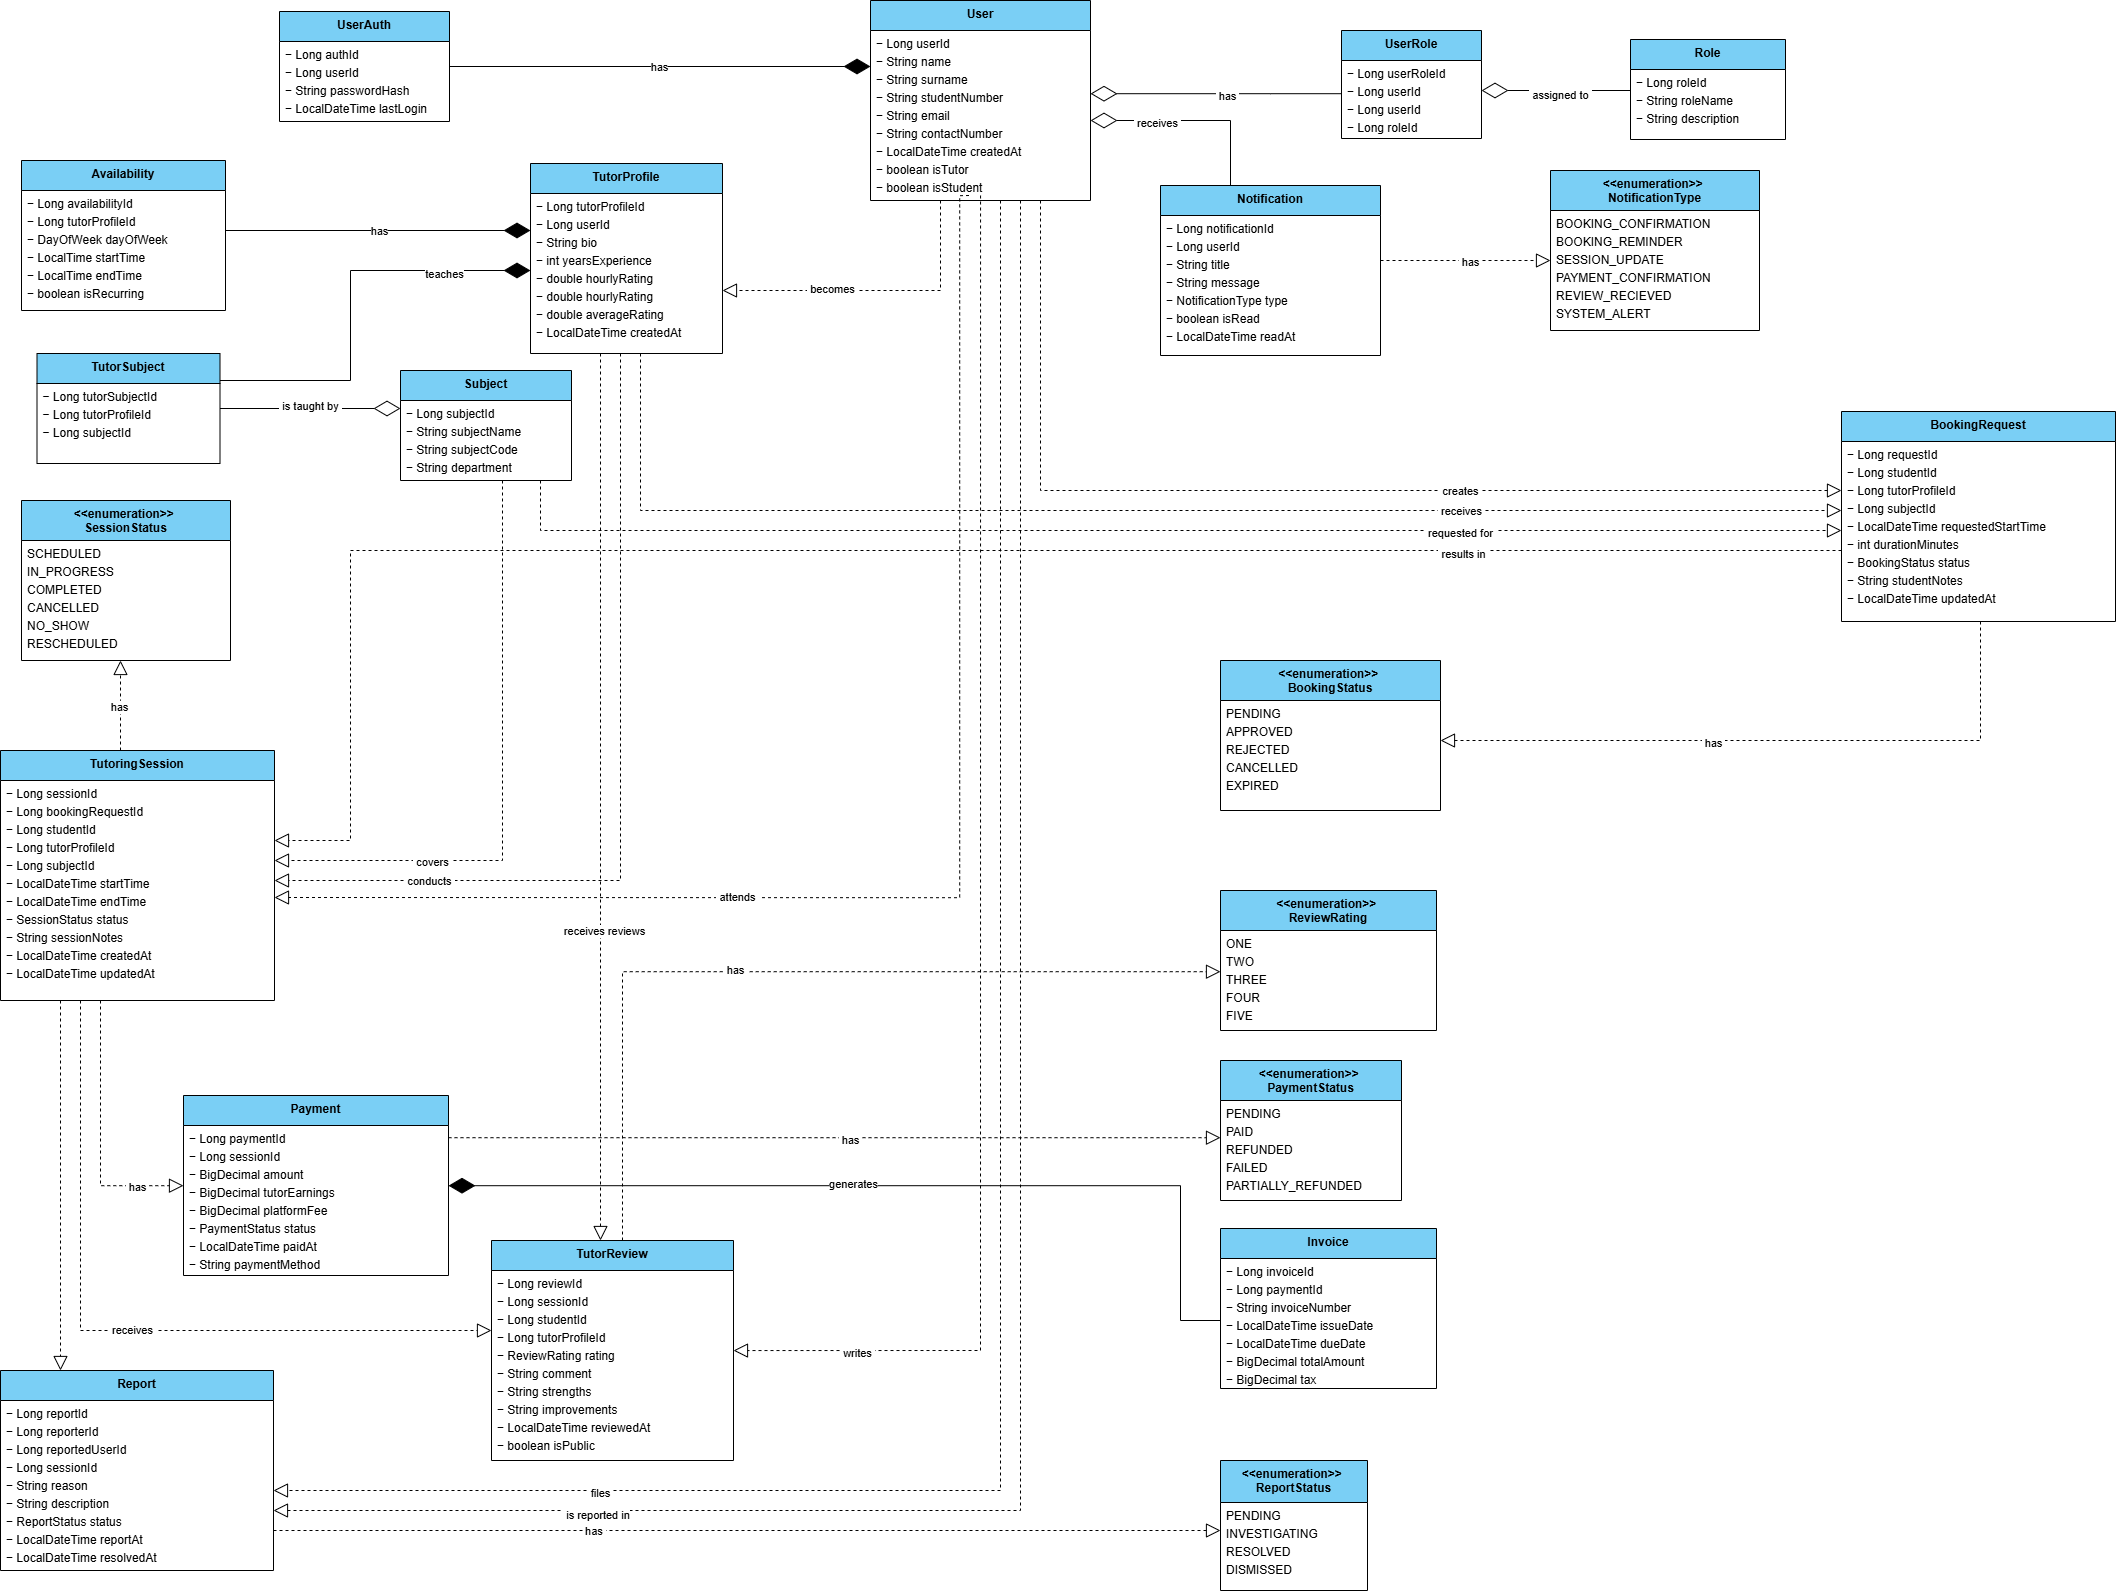
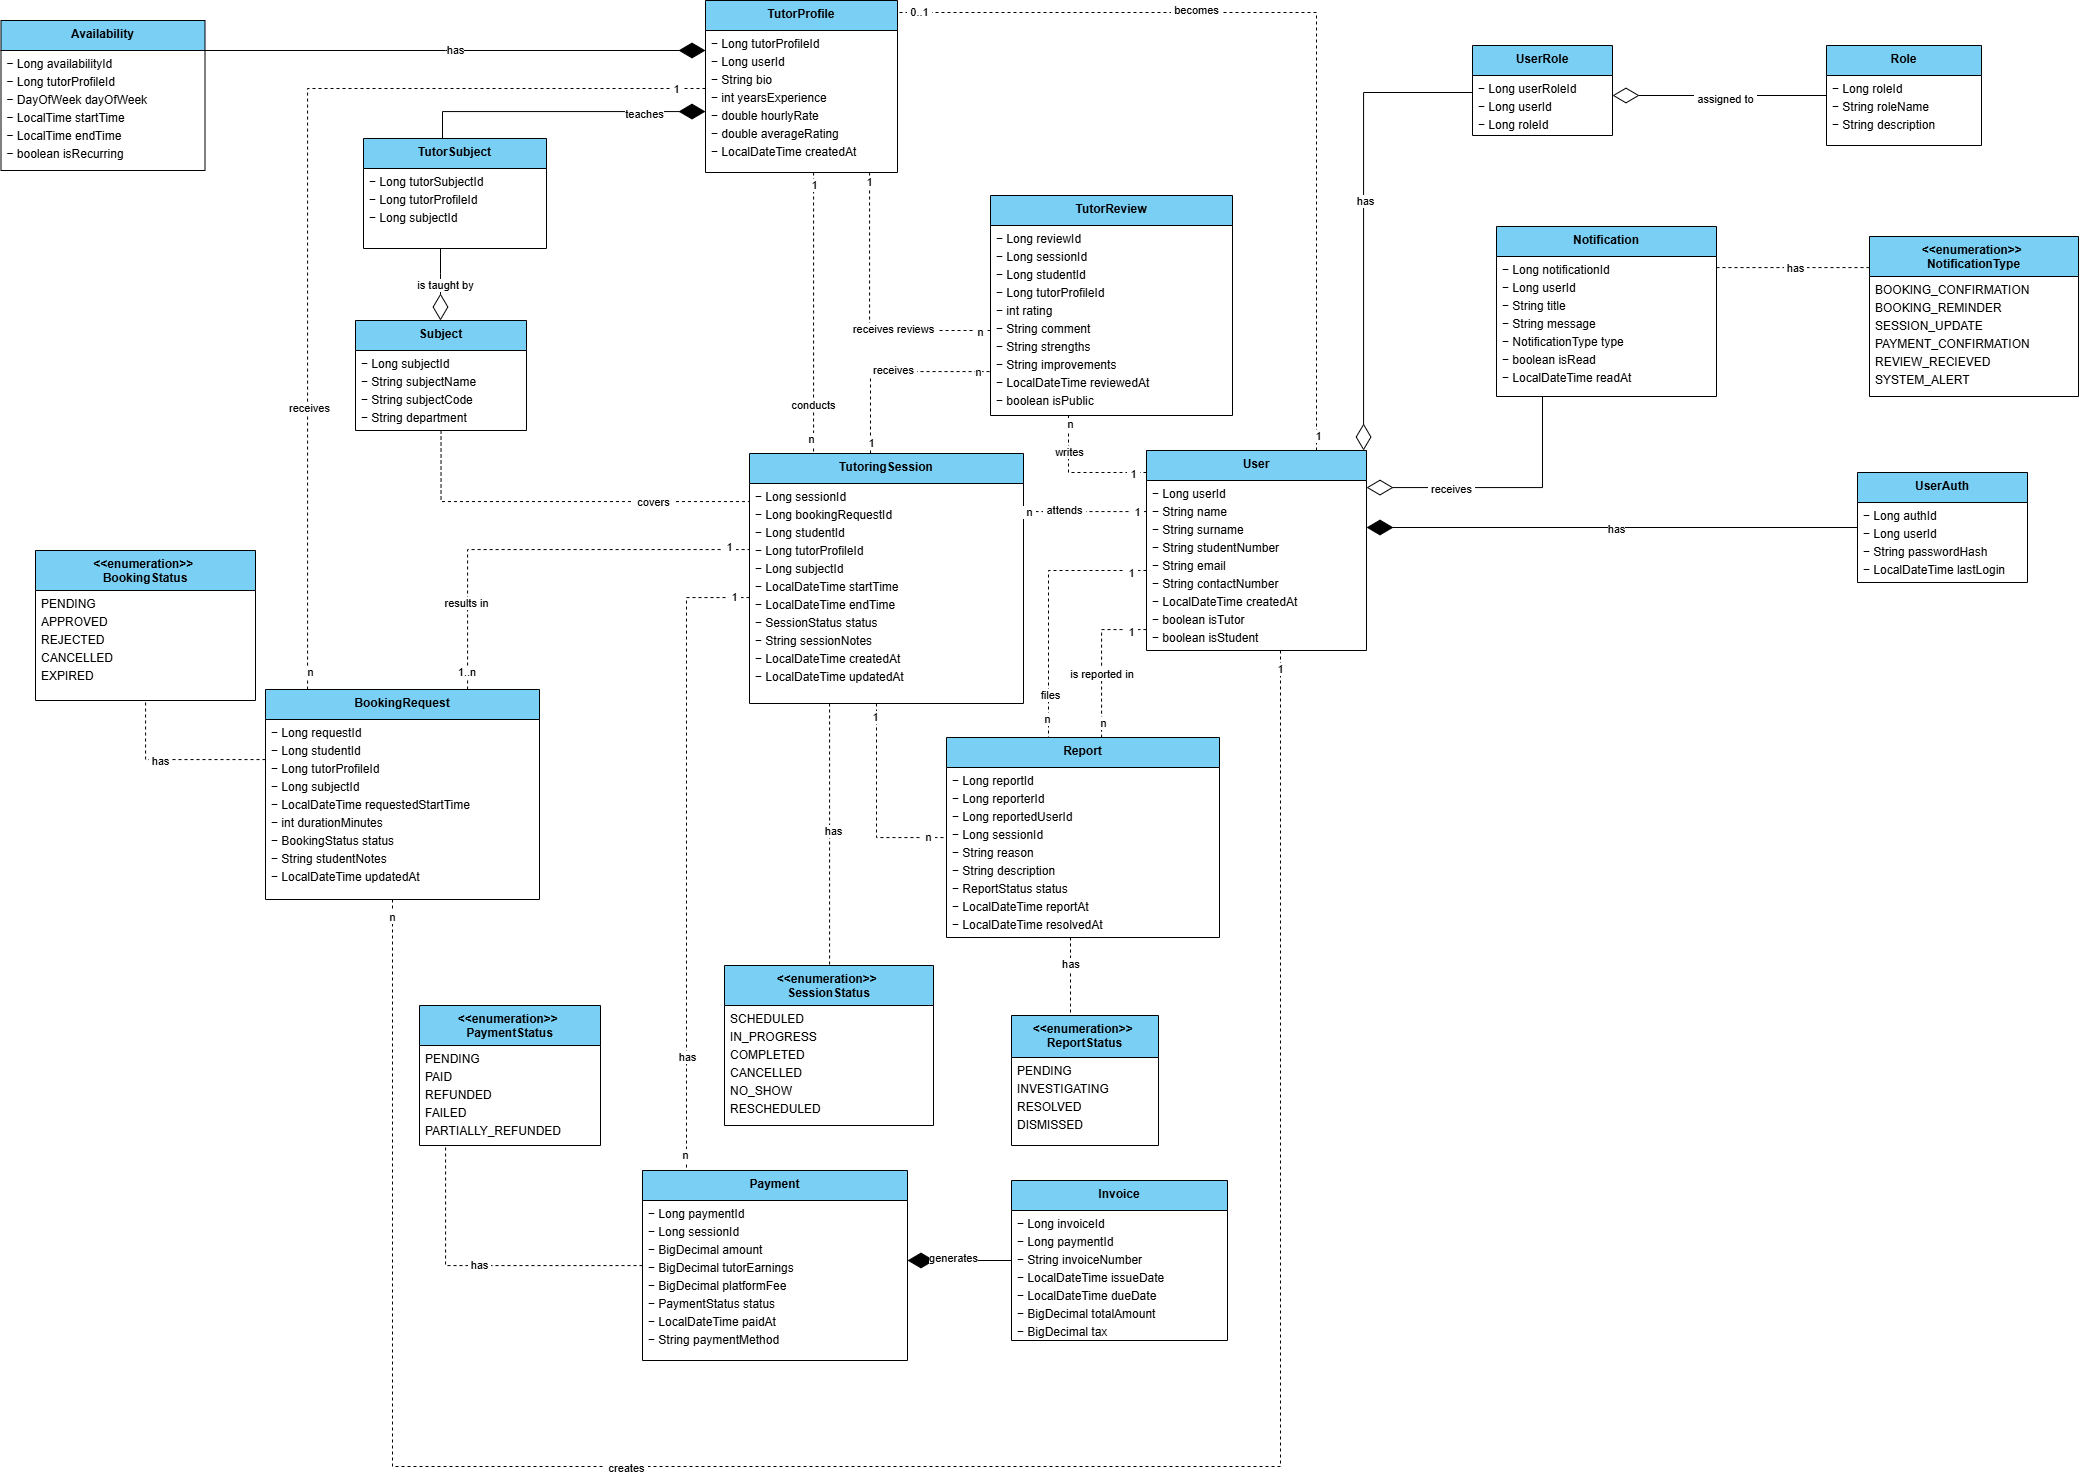
Diagram updates
* Updated erd and uml
* Updated entry file with correct member names
* Removed ReviewRating in favour of int

diff --git a/src/main/java/za/ac/cput/EduConnectMain.java b/src/main/java/za/ac/cput/EduConnectMain.java
@@ -7,12 +7,10 @@ public class EduConnectMain {
 }
 
 /* Team members
-
     Reotshepile Stock (230875807)
     Nolwazi Zulu (220118876)
     Ayabonga Jervasio Yawa (221241558)
     Esaile Franck Siani Djiakeng (220274142)
-    Ayabonga Jervasio Yawa (221241558)
+    Lesego Kutlwano Tshabalala (240263952)
     Charlton Solomons (220483418)
-
 */